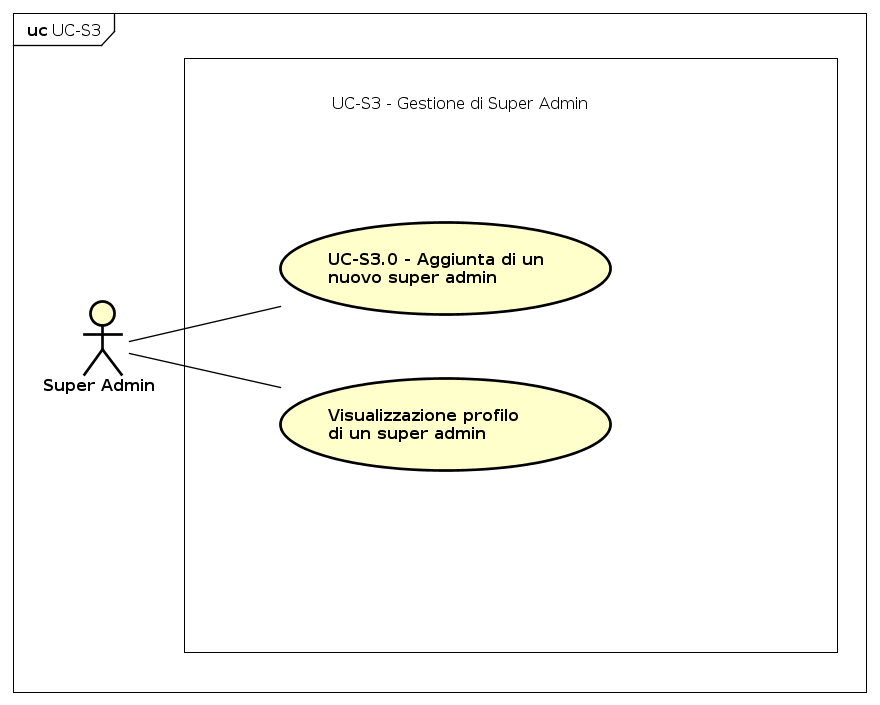
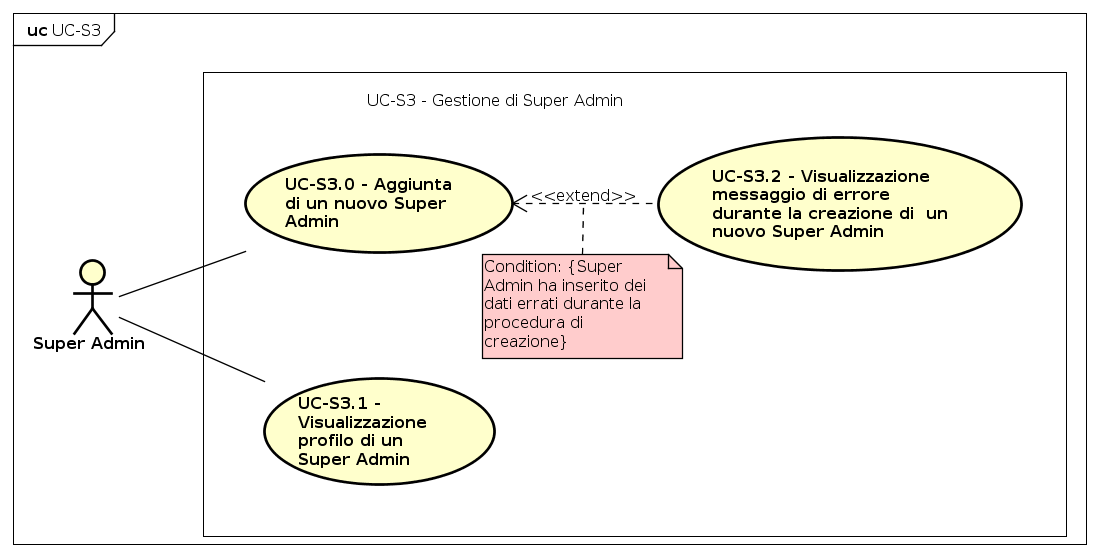
Update UC-S3's image and add some UC in "Super Admin" Add description for UC-S3.1 and add a new UC, UC-S3.2

Changed region(s): [[0.0, 0.0, 1.0, 1.0], [0.2148, 0.061, 0.9511, 0.0916], [0.3375, 0.1221, 0.675, 0.2136]]

diff --git a/official/AnalisiDeiRequisiti/res/sections/superadmin.tex b/official/AnalisiDeiRequisiti/res/sections/superadmin.tex
@@ -431,11 +431,11 @@ vedere in un elenco quelli già presenti e vederne le informazioni in dettaglio 
         \textbf{Precondizioni}  & Il \glossaryItem{Super-Admin} entra nella pagina di gestione dei \glossaryItem{Super-Admin}.\\ 
         
         \textbf{Postcondizioni} & Il sistema ha preso in carico le indicazioni del \glossaryItem{Super-Admin}. \\ 
-         \textbf{Scenario principale} & 1. Il \glossaryItem{Super-Admin} ha la possibilit\`a di aggiungere un nuovo \glossaryItem{Super-Admin}  
+         \textbf{Scenario principale} & 1. Il \glossaryItem{Super-Admin} ha la possibilit\`a di aggiungere un nuovo \glossaryItem{Super-Admin}. (UC-S3.0) 
          
-         2. Il \glossaryItem{Super-Admin} ha la possibilit\`a di visualizzare in dettaglio il profilo di un \glossaryItem{Super-Admin} esistente. \\
+         2. Il \glossaryItem{Super-Admin} ha la possibilità di visualizzare in dettaglio il profilo di un \glossaryItem{Super-Admin} esistente. (UC-S3.1) \\
         
-         \textbf{Estensioni} & 1. Fallimento dell'inserimento di un \glossaryItem{Super-Admin}.  \\
+         \textbf{Estensioni} & 1. Fallimento dell'inserimento di un \glossaryItem{Super-Admin}. (UC-S3.2)  \\
      
      \end{longtable}
       \egroup
@@ -466,7 +466,7 @@ vedere in un elenco quelli già presenti e vederne le informazioni in dettaglio 
       
         \textbf{Precondizioni}  &  Il \glossaryItem{Super-Admin} entra nella pagina di creazione di un nuovo \glossaryItem{Super-Admin} \\
         \textbf{Postcondizioni} & Il sistema ha creato un nuovo \glossaryItem{Super-Admin} nel database \\ 
-         \textbf{Scenario principale} & 1. Il \glossaryItem{Super-Admin} inserisce l'email dell'utente da registrare; 
+         \textbf{Scenario principale} & 1. Il \glossaryItem{Super-Admin} inserisce l'email dell'utente da registrare; \\
          
          2. Il \glossaryItem{Super-Admin} aggiunge una password nell'apposito campo.\\
         
@@ -478,12 +478,47 @@ vedere in un elenco quelli già presenti e vederne le informazioni in dettaglio 
       \egroup
     \end{center}
 
+\subsubsection{Visualizzazione profilo di un Super-Admin}
+    %Tabella 
+    \begin{center}
+      \bgroup
+      \def\arraystretch{1.8}     
+      \begin{longtable}{  p{3.5cm} | p{8cm} } 
+        
+        \hline
+        \multicolumn{2}{ | c | }{ \cellcolor[gray]{0.9} \textbf{UC-S3.1 - Visualizzazione profilo di un \glossaryItem{Super-Admin} }} \\ 
+        \hline
+        
+        \textbf{Attori Primari} & \glossaryItem{Super-Admin}.\\  
+        \textbf{Scopo e descrizione} & Il \glossaryItem{Super-Admin} è entrato nella pagina di visualizzazione del profilo di un altro \glossaryItem{Super-Admin}. In questa pagina può visualizzare le informazioni del \glossaryItem{Super-Admin} selezionato. \\
+        \textbf{Precondizioni}  & Il \glossaryItem{Super-Admin} ha selezionato un \glossaryItem{Super-Admin}.\\ 
+        
+        \textbf{Postcondizioni} & Il \glossaryItem{Super-Admin} ha visualizzato il profilo del \glossaryItem{Super-Admin} selezionato. \\ 
+         \textbf{Scenario principale} & 1. Il \glossaryItem{Super-Admin} visualizza il profilo del \glossaryItem{Super-Admin} selezionato. \\ 
+     
+     \end{longtable}
+      \egroup
+    \end{center}
     
-
-
-
-
-
-
-
+    \subsubsection{Visualizzazione messaggio di errore durante la creazione di un Super-Admin}
+        %Tabella 
+        \begin{center}
+          \bgroup
+          \def\arraystretch{1.8}     
+          \begin{longtable}{  p{3.5cm} | p{8cm} } 
+            
+            \hline
+            \multicolumn{2}{ | c | }{ \cellcolor[gray]{0.9} \textbf{UC-S3.2 - Visualizzazione messaggio di errore nella creazione di un \glossaryItem{Super-Admin} }} \\ 
+            \hline
+            
+            \textbf{Attori Primari} & \glossaryItem{Super-Admin}.\\  
+            \textbf{Scopo e descrizione} & Il \glossaryItem{Super-Admin} ha cercato di inserire un altro \glossaryItem{Super-Admin}, ma si è verificato un errore. \\
+            \textbf{Precondizioni}  & Il \glossaryItem{Super-Admin} ha inserito un indirizzo email duplicato durante la creazione di un altro \glossaryItem{Super-Admin}.\\ 
+            
+            \textbf{Postcondizioni} & Il \glossaryItem{Super-Admin} ha visualizzato un messaggio di errore che lo avvisa dell'inserimento fallito. \\ 
+             \textbf{Scenario principale} & 1. Il \glossaryItem{Super-Admin} visualizza il messaggio di errore dovuto all'inserimento di dati errati durante la creazione di un nuovo \glossaryItem{Super-Admin}. \\ 
+         
+         \end{longtable}
+          \egroup
+        \end{center}
 \newpage
